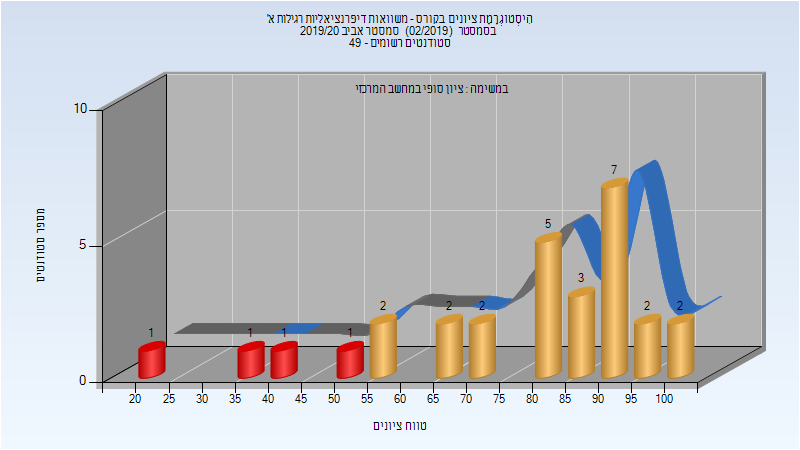
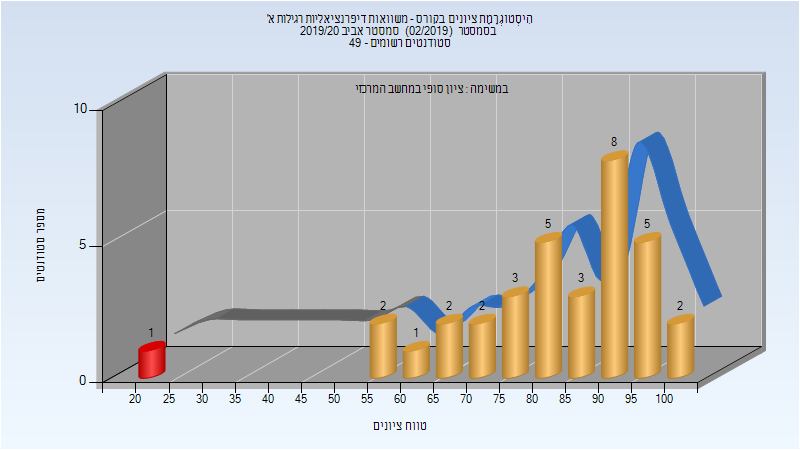
Deploy michael-maltsev/technion-histograms to github.com/michael-maltsev/technion-histograms.git:gh-pages

diff --git a/124911/index.html b/124911/index.html
@@ -482,12 +482,36 @@
 </thead>
 <tbody>
 <tr>
-<td>מעיין גליה</td>
+<td>דה-רויטר גרהם</td>
 <td>מדריך מעבדה - עם הרשאות מרצה אחראי</td>
 </tr>
 <tr>
-<td>דה-רויטר גרהם</td>
+<td>מעיין גליה</td>
 <td></td>
+</tr>
+<tr>
+<td>אביגדורי עידן</td>
+<td>מדריך מעבדה</td>
+</tr>
+<tr>
+<td>חסין אסף</td>
+<td>מדריך מעבדה</td>
+</tr>
+<tr>
+<td>לוי רומי</td>
+<td>מדריך מעבדה</td>
+</tr>
+<tr>
+<td>עואד מוחמד</td>
+<td>מדריך מעבדה</td>
+</tr>
+<tr>
+<td>ליבוביץ ליאב</td>
+<td>מדריך מעבדה</td>
+</tr>
+<tr>
+<td>לפס שי</td>
+<td>מדריך מעבדה</td>
 </tr>
 <tr>
 <td>בשקורוב רומן</td>
@@ -515,30 +539,6 @@
 </tr>
 <tr>
 <td>זלמן בת-חן</td>
-<td>מדריך מעבדה</td>
-</tr>
-<tr>
-<td>אביגדורי עידן</td>
-<td>מדריך מעבדה</td>
-</tr>
-<tr>
-<td>חסין אסף</td>
-<td>מדריך מעבדה</td>
-</tr>
-<tr>
-<td>לוי רומי</td>
-<td>מדריך מעבדה</td>
-</tr>
-<tr>
-<td>עואד מוחמד</td>
-<td>מדריך מעבדה</td>
-</tr>
-<tr>
-<td>ליבוביץ ליאב</td>
-<td>מדריך מעבדה</td>
-</tr>
-<tr>
-<td>לפס שי</td>
 <td>מדריך מעבדה</td>
 </tr>
 </tbody>

diff --git a/104285/index.html b/104285/index.html
@@ -1003,13 +1003,13 @@
 </thead>
 <tbody>
 <tr>
-<td>29</td>
-<td>25/4</td>
-<td>86</td>
+<td>34</td>
+<td>33/1</td>
+<td>97</td>
 <td>21</td>
 <td>100</td>
-<td>77.103</td>
-<td>84</td>
+<td>82.118</td>
+<td>86.5</td>
 </tr>
 </tbody>
 </table>

diff --git a/124911/README.md b/124911/README.md
@@ -140,8 +140,14 @@
 
 | איש סגל | תפקיד |
 | ---- | ---- |
-| מעיין גליה | מדריך מעבדה - עם הרשאות מרצה אחראי |
-| דה-רויטר גרהם |  |
+| דה-רויטר גרהם | מדריך מעבדה - עם הרשאות מרצה אחראי |
+| מעיין גליה |  |
+| אביגדורי עידן | מדריך מעבדה |
+| חסין אסף | מדריך מעבדה |
+| לוי רומי | מדריך מעבדה |
+| עואד מוחמד | מדריך מעבדה |
+| ליבוביץ ליאב | מדריך מעבדה |
+| לפס שי | מדריך מעבדה |
 | בשקורוב רומן | מדריך מעבדה |
 | גולדשטיין יוליה | מדריך מעבדה |
 | בורג טליה | מדריך מעבדה |
@@ -149,12 +155,6 @@
 | עוזרי ענבל | מדריך מעבדה |
 | מקרוב קונסטנטין | מדריך מעבדה |
 | זלמן בת-חן | מדריך מעבדה |
-| אביגדורי עידן | מדריך מעבדה |
-| חסין אסף | מדריך מעבדה |
-| לוי רומי | מדריך מעבדה |
-| עואד מוחמד | מדריך מעבדה |
-| ליבוביץ ליאב | מדריך מעבדה |
-| לפס שי | מדריך מעבדה |
 
 ### סופי מועד א'
 

diff --git a/104285/README.md b/104285/README.md
@@ -313,5 +313,5 @@
 
 | סטודנטים | עברו/נכשלו | אחוז עוברים | ציון מינימלי | ציון מקסימלי | ממוצע | חציון |
 | ---- | ---- | ---- | ---- | ---- | ---- | ---- |
-| 29 | 25/4 | 86 | 21 | 100 | 77.103 | 84 |
+| 34 | 33/1 | 97 | 21 | 100 | 82.118 | 86.5 |
 
